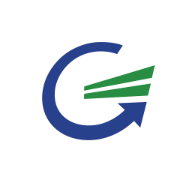
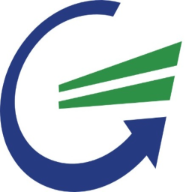
feat: change images

diff --git a/src/components/Header.tsx b/src/components/Header.tsx
@@ -1,4 +1,3 @@
-
 import { useState, useEffect } from "react";
 import { motion } from "framer-motion";
 import { Menu, X } from "lucide-react";
@@ -40,28 +39,26 @@ export const Header = () => {
             className="flex items-center space-x-3"
           >
             <img
-              src="/lovable-uploads/59c10998-0965-4c18-8782-079cd7e9a3c3.png"
+              src="/lovable-uploads/horizontal_logo.png"
               alt="GRAFENO Logo"
-              className="h-12 w-12"
+              className="h-12 w-auto"
             />
-            <div>
-              <h1 className="text-xl font-bold text-grafeno-blue">GRAFENO</h1>
-              <p className="text-sm text-gray-600">Engenharia e Construção</p>
-            </div>
           </motion.div>
 
           {/* Desktop Navigation */}
           <nav className="hidden md:flex items-center space-x-8">
-            {["início", "sobre", "serviços", "clientes", "contato"].map((item) => (
-              <Button
-                key={item}
-                variant="ghost"
-                onClick={() => scrollToSection(item)}
-                className="text-grafeno-blue hover:text-grafeno-green transition-colors capitalize"
-              >
-                {item}
-              </Button>
-            ))}
+            {["início", "sobre", "serviços", "clientes", "contato"].map(
+              (item) => (
+                <Button
+                  key={item}
+                  variant="ghost"
+                  onClick={() => scrollToSection(item)}
+                  className="text-grafeno-blue hover:text-grafeno-green transition-colors capitalize"
+                >
+                  {item}
+                </Button>
+              )
+            )}
           </nav>
 
           {/* Mobile Menu Button */}
@@ -82,16 +79,18 @@ export const Header = () => {
             animate={{ opacity: 1, y: 0 }}
             className="md:hidden mt-4 bg-white rounded-lg shadow-lg p-4"
           >
-            {["início", "sobre", "serviços", "clientes", "contato"].map((item) => (
-              <Button
-                key={item}
-                variant="ghost"
-                onClick={() => scrollToSection(item)}
-                className="w-full text-left justify-start text-grafeno-blue hover:text-grafeno-green capitalize"
-              >
-                {item}
-              </Button>
-            ))}
+            {["início", "sobre", "serviços", "clientes", "contato"].map(
+              (item) => (
+                <Button
+                  key={item}
+                  variant="ghost"
+                  onClick={() => scrollToSection(item)}
+                  className="w-full text-left justify-start text-grafeno-blue hover:text-grafeno-green capitalize"
+                >
+                  {item}
+                </Button>
+              )
+            )}
           </motion.nav>
         )}
       </div>
